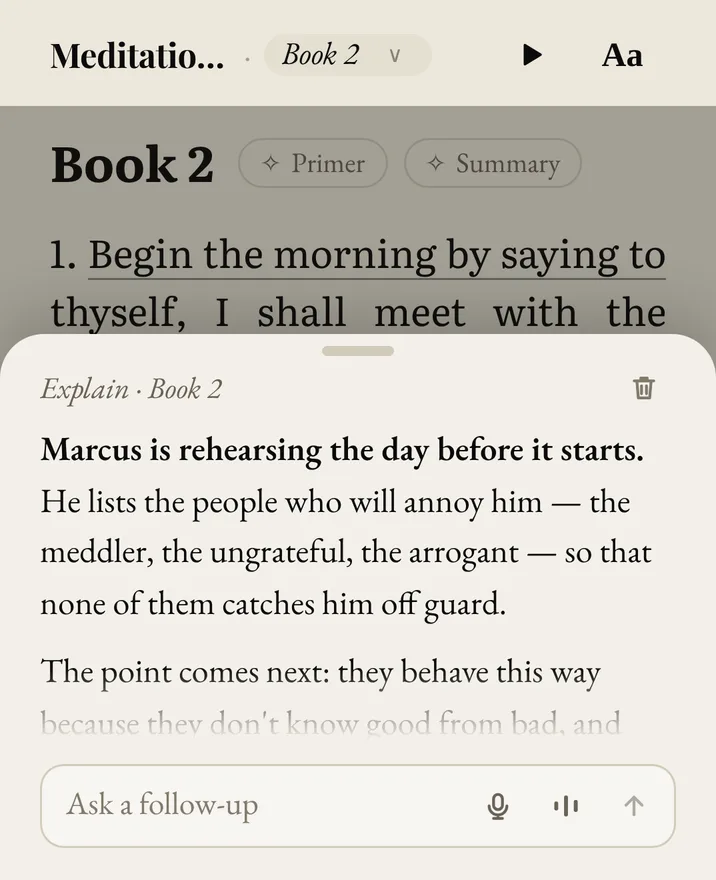
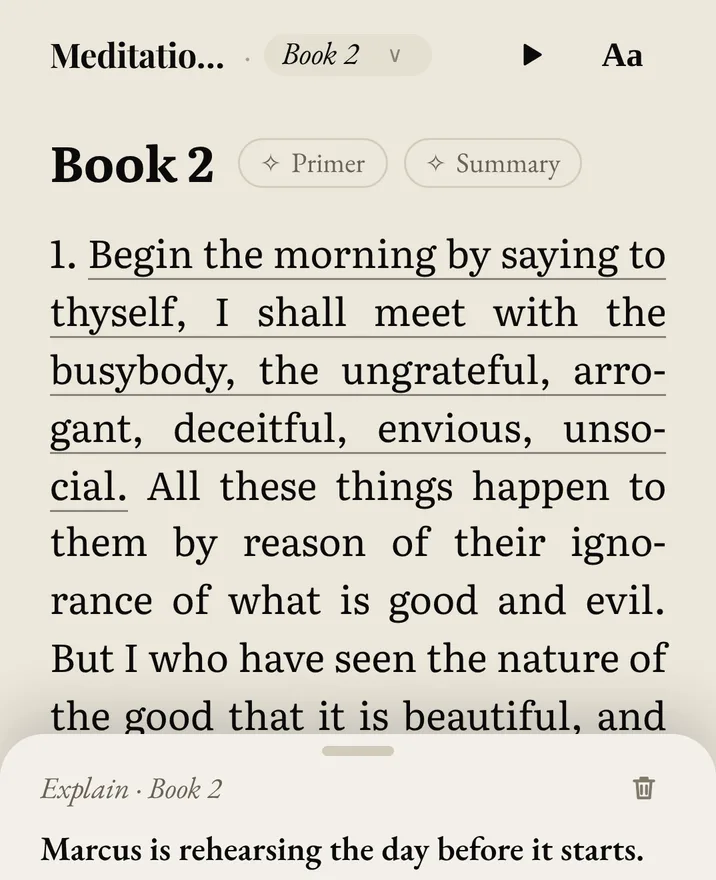
/about: the reader is the phone's first screen; cards peek; modern English arrives as a wave
Anders, 19 Nov:
- Phone: the headline over the top, the reader edge to edge under it, and at the
  foot the moment with its dots and arrow, then Start reading. The reader's foot
  sits just above the controls, so a card's peek is always in view.
- The Explain and Summary cards only peek (their title and first line): the phone
  frames are re-captured with the card's sheet lowered and the dimming lifted
  (capture-try-frames.cjs, PEEK).
- Desktop and phone: the switch to modern English runs down the page as a wave,
  as in the launch film; reduced motion skips it.

Claude-Session: https://claude.ai/code/session_01MT1m8mq3NtYNBEbe7tz8nU

diff --git a/app/public/lab/try/try.css b/app/public/lab/try/try.css
@@ -246,3 +246,57 @@ html[data-eink="true"] .try-backdrop { display: none; }
 @media (max-width: 359px) {
   .try-account .try-pill--outline.try-only-phone { display: none; }
 }
+
+/* ---- The switch to modern English: a wave that runs down the page, line after line (Anders, 19 Nov, after the
+   launch film). The new frame is unmasked from the top; the old one stays under it until the wave has passed. ---- */
+.try-demo picture.is-wave img {
+  opacity: 1; transition: none;
+  /* A soft edge 30% of the frame tall: it enters at the top as the wave starts and leaves at the foot as it ends. */
+  -webkit-mask-image: linear-gradient(#000 0 41.2%, transparent 58.8%); mask-image: linear-gradient(#000 0 41.2%, transparent 58.8%);
+  -webkit-mask-size: 100% 170%; mask-size: 100% 170%;
+  animation: try-wave 1.4s cubic-bezier(.4, 0, .3, 1) both;
+}
+.try-demo picture.is-under img { opacity: 1; transition: none; filter: blur(.4px); }
+@keyframes try-wave { from { -webkit-mask-position: 0 100%; mask-position: 0 100%; } to { -webkit-mask-position: 0 0; mask-position: 0 0; } }
+
+/* ---- Phone: the reader is the first screen (Anders, 19 Nov). The headline over the top, the reader edge to edge
+   under it, and at the foot the moment, its dots and arrow, then Start reading. Cards only peek (the frames show
+   their top), so the page itself stays readable. ---- */
+@media (max-width: 899px) {
+  .try-hero { position: relative; height: 100svh; min-height: 580px; max-height: 960px; padding: 0; overflow: hidden; }
+  .try-stage { display: block; padding: 0; }
+  .try-intro { display: contents; }
+  .try-headline {
+    position: absolute; z-index: 3; left: 16px; right: 16px; top: calc(max(8px, env(safe-area-inset-top, 0px)) + 58px);
+    margin: 0; font-size: 27px; line-height: 1.08;
+  }
+  .try-show { position: absolute; inset: 0; z-index: 1; }
+  .try-demo {
+    position: absolute; left: 0; right: 0; top: calc(max(8px, env(safe-area-inset-top, 0px)) + 142px); bottom: 0;
+    width: auto; height: auto; aspect-ratio: auto; border-radius: 0; background: transparent; box-shadow: none;
+    /* The reader fades in under the headline and out behind the controls; the scene shows around it. */
+    -webkit-mask-image: linear-gradient(transparent 0, #000 40px, #000 calc(100% - 158px), transparent calc(100% - 146px));
+    mask-image: linear-gradient(transparent 0, #000 40px, #000 calc(100% - 158px), transparent calc(100% - 146px));
+  }
+  /* The reader's foot sits just above the controls, so a card's peek is always in view; on a short phone the
+     reader's top runs under the headline's fade instead. */
+  .try-demo picture { position: absolute; left: 0; right: 0; top: auto; bottom: calc(env(safe-area-inset-bottom, 0px) + 150px); height: auto; }
+  .try-demo img { position: static; width: 100%; height: auto; object-fit: initial; }
+  .try-step {
+    position: absolute; z-index: 3; left: 16px; right: 16px; bottom: calc(env(safe-area-inset-bottom, 0px) + 104px);
+    display: grid; grid-template-columns: auto minmax(0, 1fr) auto; column-gap: 12px; align-items: center;
+    margin: 0; padding: 0; background: none; border: 0; border-radius: 0;
+  }
+  .try-count { grid-column: 1; grid-row: 1; margin: 0; }
+  .try-step-title { grid-column: 2; grid-row: 1; font-size: 16px; white-space: nowrap; overflow: hidden; text-overflow: ellipsis; }
+  .try-step-num { display: none; }
+  .try-next { grid-column: 3; grid-row: 1; background: rgba(244, 239, 228, .14); color: var(--try-cream-ink); }
+  .try-next:hover { color: var(--try-cream-ink); }
+  .try-action {
+    display: flex; position: absolute; z-index: 3; left: 16px; right: 16px; bottom: calc(env(safe-area-inset-bottom, 0px) + 42px);
+    width: auto; max-width: none; min-height: 52px; font-size: 17px;
+  }
+  .try-phone-more { position: absolute; z-index: 3; left: 0; right: 0; bottom: calc(env(safe-area-inset-bottom, 0px) + 12px); margin: 0; }
+}
+@media (max-width: 374px) { .try-headline { font-size: 23px; } .try-step { column-gap: 10px; } .try-step-title { font-size: 14px; white-space: normal; } .try-demo { top: calc(max(8px, env(safe-area-inset-top, 0px)) + 126px); } }
+@media (prefers-reduced-motion: reduce) { .try-demo picture.is-wave img { animation: none; -webkit-mask-image: none; mask-image: none; } }

diff --git a/app/public/lab/try/try.js b/app/public/lab/try/try.js
@@ -48,8 +48,23 @@
   var held = false
   var visible = true
 
+  // The frame that switches to modern English arrives as a wave running down the page (the launch film's switch).
+  var WAVE = FRAMES.map(function (frame, i) { return i > 0 && frame[1] === 2 && FRAMES[i - 1][1] !== 2 })
+  var shown = -1
   function paint() {
-    pictures.forEach(function (picture, i) { picture.classList.toggle('is-on', i === index) })
+    var wave = !reduce && shown >= 0 && shown !== index && WAVE[index]
+    var under = wave ? shown : -1
+    pictures.forEach(function (picture, i) {
+      picture.classList.remove('is-wave', 'is-under')
+      picture.classList.toggle('is-on', i === index)
+    })
+    if (wave) {
+      pictures[under].classList.add('is-under')
+      void pictures[index].offsetWidth
+      pictures[index].classList.add('is-wave')
+      setTimeout(function () { pictures[under].classList.remove('is-under') }, 1600)
+    }
+    shown = index
     var step = FRAMES[index][1]
     $$('[data-try-step]').forEach(function (button) {
       if (Number(button.getAttribute('data-try-step')) === step) button.setAttribute('aria-current', 'step')
